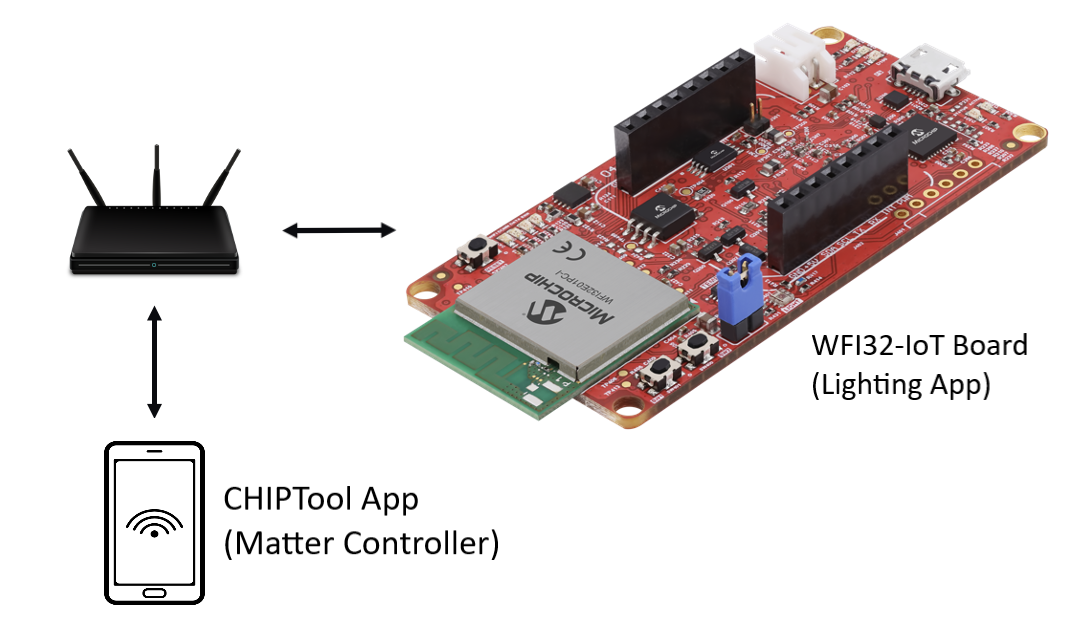
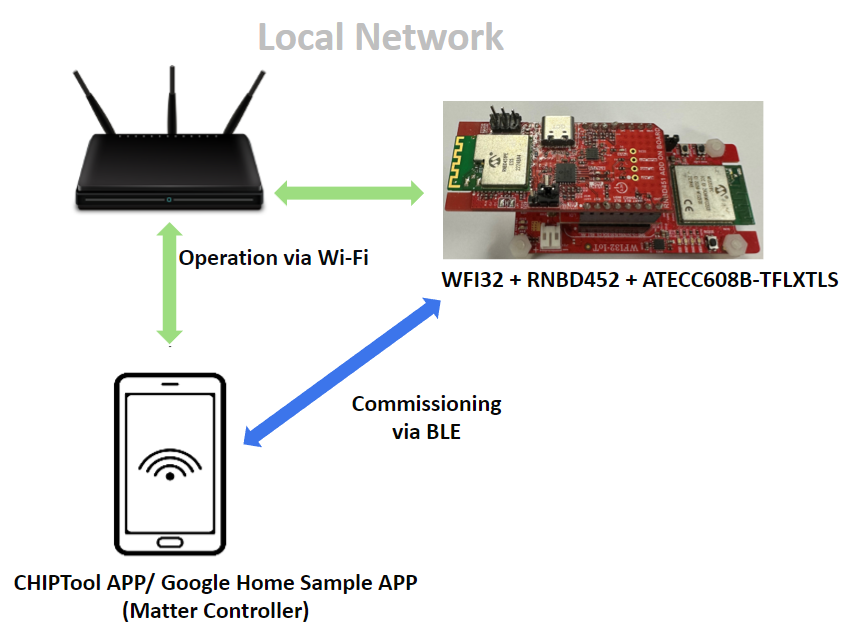
update readme

diff --git a/README.md b/README.md
@@ -4,7 +4,7 @@
 
 # Matter (*formerly* CHIP) PIC32MZW1 Lighting Example
 
-This MPLAB example demonstrates the use of Matter protocol (also known as Project CHIP - Connected Home over IP) over Microchip PIC32MZW1 based [WFI32-IoT board](https://ww1.microchip.com/downloads/aemDocuments/documents/WSG/ProductDocuments/UserGuides/EV36W50A-WFI32-IoT-Board-Users-Guide-DS50003262.pdf)
+This MPLAB example demonstrates the use of Matter protocol (also known as Project CHIP - Connected Home over IP) over Microchip PIC32MZW1 based [WFI32-IoT board](https://ww1.microchip.com/downloads/aemDocuments/documents/WSG/ProductDocuments/UserGuides/EV36W50A-WFI32-IoT-Board-Users-Guide-DS50003262.pdf) and RNBD451 BLE Add On Board.
 
 <hr>
 
@@ -32,7 +32,7 @@ This MPLAB example demonstrates the use of Matter protocol (also known as Projec
 
 ## Introduction
 
-This example is a starting point for Matter protocol demonstration over Microchip's PIC32MZW1 platform and gives an idea to control the Yellow LED on WFI32-IoT board using Android CHIPTool app (Matter Controller). During the initial release (Phase-1) of this example, we use the example certificates provided in the matter's repo for device attestation and embedded the certifcates in the project code. To launch products in the market, certificates approved by [CSA](https://csa-iot.org/) are need to be used. 
+This example is a starting point for Matter protocol demonstration over Microchip's PIC32MZW1 Wi-Fi MCU and RNBD451 BLE module platform and gives an idea to control the Yellow LED on WFI32-IoT board using Android CHIPTool app (Matter Controller). During the initial release (Phase-1) of this example, we use the example certificates provided in the matter's repo for device attestation and embedded the certifcates in the project code. To launch products in the market, certificates approved by [CSA](https://csa-iot.org/) are need to be used. 
 
 - Note: This example was developed and tested using MPLAB X IDE v6.00+, MPLAB XC32 compiler v4.20 on Ubuntu 20.04 LTS and 22.04 LTS and on Microsoft Windows 10 Pro.
 
@@ -40,9 +40,11 @@ This example is a starting point for Matter protocol demonstration over Microchi
 
 ## Hardware Requirements
 
-- [WFI32-IoT board](https://www.microchip.com/en-us/development-tool/EV36W50A)
-- An Android Phone with [&#34;CHIPTool&#34; app](assets/matterMicrochip.apk) installed
-- Router/AP (Needs no internet connectivity)
+- [WFI32-IoT Board](https://www.microchip.com/en-us/development-tool/EV36W50A)
+- [RNBD451 Add On Board](https://www.microchip.com/en-us/development-tool/EV25F14A)
+- An Android phone running [Google Home APP (GHA)](https://play.google.com/store/apps/details?id=com.google.android.apps.chromecast.app&hl=en_US&gl=US)/ [Google Home Sample APP for Matter](https://developers.home.google.com/samples/matter-app)/ [CHIPTool app](assets/matterMicrochip.apk)
+- [ATECC608B TRUST board DT100104](https://www.microchip.com/en-us/development-tool/DT100104) 
+- Router/AP
 
 <a name="environment"></a>
 
@@ -83,10 +85,10 @@ Below is the OS environment that you can use.
 
 ## Demo setup
 
-The demo setup for Matter Lighting example includes an Android phone running [Google Home APP (GHA)](https://play.google.com/store/apps/details?id=com.google.android.apps.chromecast.app&hl=en_US&gl=US)/ [Google Home Sample APP for Matter](https://developers.home.google.com/samples/matter-app)/ [CHIPTool app](assets/matterMicrochip.apk), WFI32-IoT board and Router/AP (Needs no internet connectivity). The following diagram shows the demo setup for WFI32-IoT board.
+The demo setup for Matter Lighting example includes an Android phone running [Google Home APP (GHA)](https://play.google.com/store/apps/details?id=com.google.android.apps.chromecast.app&hl=en_US&gl=US)/ [Google Home Sample APP for Matter](https://developers.home.google.com/samples/matter-app)/ [CHIPTool app](assets/matterMicrochip.apk), WFI32-IoT board and Router/AP. The following diagram shows the demo setup for WFI32-IoT board.
 
 </p>
-  <p align="center"><img width="450" src="assets/matterSetup.png">
+  <p align="center"><img width="600" src="assets/matterSetup.png">
   </p>
 
 <a name="exampfeatures"></a>
@@ -96,7 +98,7 @@ The demo setup for Matter Lighting example includes an Android phone running [Go
 - This example supports OTA (Over-the-air) firmware upgrade feature
 - MPLAB X IDE can be used on Microsoft Windows to build and flash the example
 - Enables ON/OFF lighting cluster
-- Supports device discovery and Commission
+- Supports device discovery and Commission over BLE
 - Status LED (Blue color D403)
   - Blinking at 500ms ON/OFF : Attempting to connect to AP
   - Blinking at 200ms ON/OFF : Set as Soft-AP mode for network provisioning
@@ -173,61 +175,6 @@ Update default Wi-Fi Access Point (AP) credentials in "/PIC32MZW1_Matter_Project
    ```
    The debug session can be started by referring to the steps mentioned [here.](https://microchipdeveloper.com/mplabx:start-a-debug-session) 
 
-<a name="network_provisioning"></a>
-
-## Wi-Fi Network Provisioning
-
-If you want to connect the WFI32-IoT board to the target AP other than the default settings, you can perform below steps:
-
-  #### Step 1:
-  Short press the Switch 1 (SW1), the WFI32-IoT board will reboot and start in softAP mode.
-  
-  The Blue LED on-board will blink at 200ms ON/OFF.
-  </p>
-    <p align="center"><img width="300" src="assets/softAPButton.png">
-      </p>
-
-  #### Step 2:
-  Connect your smartphone to WFI32-IoT board softAP, SSID is "INF-FFF1-8001" in OPEN security.
-
-  #### Step 3:
-  Launch the "Microchip WiFi Provisioning" [iOS](https://apps.apple.com/us/app/wi-fi-provisioning/id1553255731?platform=iphone) or [Android](https://play.google.com/store/apps/details?id=com.microchip.wifiapplication) APP on your iPhone or Android phone.
-  
-  Click "Connect" button
-  </p>
-    <p align="center"><img width="300" src="assets/iosWifiProvisioningApp.png">
-      </p>
-  
-  #### Step 4:
-  - Input the target AP SSID and password:
- Select the desired AP name from the app's scan result list and click "Send" button
-
-  #### Step 5:
-  WFI32-IoT Board receives the target AP credentials and connects to the target AP. The Blue LED on-board turns ON when connected to Wi-Fi. The Blue LED blinks at 500ms ON/OF,F if it fails to make the Wi-Fi connection.
-  </p>
-    <p align="center"><img width="300" src="assets/networkConnectBlueLED.png">
-      </p>
-
-- Note: The "Microchip Wi-Fi Provisioning" APP shown above is actually using a TCP client in the backend. The TCP client connects to WFI32-IoT TCP server and sends properly fomratted AP credentials.
-User can use any other socket client app beside the smartphone APP.
-
-  For example, user can use a PC to connect the WFI32-IoT softAP (SSID is "INF-FFF1-8001") and run below Python 2.7 based TCP client scripts. The WFI32-IoT board will reboot after it receive the AP credentials.
-
-```python
-import socket
-sock = socket.socket(socket.AF_INET, socket.SOCK_STREAM)
-# WFI32-IoT board runs an AP interface with IP address 192.168.1.1 and a TCP server on port 80
-server_address = ('192.168.5.1', 80)
-# Connect to the TCP socket
-sock.connect(server_address)
-# Send AP credentials over the connected socket to the WFI32-IoT board
-# Replace 'ssid' with your AP SSID and 'password' with your AP password 
-# Replace 'security' with proper value relevant to your AP security mode:
-#0:Open | 1: WAP/WPA2 | 2:WEP | 3:WPA3 | 4:Enterprise
-sock.sendall('apply,ssid,security,password,NULL')
-# Send a 'finish' string over the socket to inform WFI32-IoT board to apply the passed credentials
-sock.sendall('finish')
-```
 
 <a name="commissioncontrol"></a>
 
@@ -241,6 +188,11 @@ If you need to test with Google Assistant, you can use the method 1 which use GH
 
 If you need to test the Matter devices with Google Home ecosystem (i.e. google assistant), you need to use Google Home APP (GHA) on android phone to pair the Matter devices. You also need to have a Google Nest devices function as Matter hubs in the Google Home ecosystem.
 The Google Nest device can be Google Nest Hub (2nd gen)/ Google Home Mini. You can also find other supported Google Nest devices in this [page](https://developers.home.google.com/matter/supported-devices)  
+Below picture show about the setup:  
+
+   </p>
+    <p align="center"><img width="600" src="assets/google_assistant_demo.png">
+   </p>  
 
   #### Step 1:
 
@@ -265,7 +217,11 @@ The Google Nest device can be Google Nest Hub (2nd gen)/ Google Home Mini. You c
 
   #### Step 5:
 
-  Pair the Matter device (WFI32-IoT board) by following this [guide](https://developers.home.google.com/matter/integration/pair)   
+  Connect your samrtphone to the target AP that the Matter deice need to be connected to.
+
+  #### Step 6:
+
+  Pair the Matter device (WFI32-IoT board) over BLE by following this [guide](https://developers.home.google.com/matter/integration/pair)   
   The QR code string is printed in the serial console when it boots up. For example:
   ```
   CHIP:SVR: SetupQRCode: [MT:-24J0AFN00KA0648G00]
@@ -276,7 +232,7 @@ The Google Nest device can be Google Nest Hub (2nd gen)/ Google Home Mini. You c
 
   Open the link in a web browser to display the QR code.
 
-  #### Step 6:
+  #### Step 7:
 
   Use the Google Home APP(GHA) or speak to Google Assistant to control the Matter device (WFI32-IoT board). Users can get more information from this [guide](https://developers.home.google.com/matter/integration/control)  
   The Yellow LED on-board can be controlled - turned ON, OFF by toggle the device state from GHA or voice command with Google Assistant.
@@ -299,7 +255,11 @@ The Google Home Sample App for Matter uses the [Google Home Mobile SDK](https://
 
   #### Step 2:
 
-  Follow the [link](https://developers.home.google.com/samples/matter-app) to commission the matter devices.
+  Connect your samrtphone to the target AP that the Matter deice need to be connected to.
+
+  #### Step 3:
+
+  Follow the [link](https://developers.home.google.com/samples/matter-app) to commission the matter devices over BLE.
   Pair the Matter device (WFI32-IoT board) by following this [guide](https://developers.home.google.com/matter/integration/pair)   
   The QR code string is printed in the serial console when it boots up. For example:
   
@@ -312,7 +272,7 @@ The Google Home Sample App for Matter uses the [Google Home Mobile SDK](https://
 
   Open the link in a web browser to display the QR code.
 
-  #### Step 3:
+  #### Step 4:
 
   Control the Matter device by toggle your device On or Off on the APP.
 
@@ -332,6 +292,10 @@ Alternatively, [follow the instructions to install](https://www.javatpoint.com/h
 
   #### Step 1:
 
+  Connect your samrtphone to the target AP that the Matter deice need to be connected to.
+    
+  #### Step 2:
+
   Use "PROVISION CHIP DEVICE WITH WI-FI" -> "INPUT DEVICE ADDRESS" tabs to start commissioning WFI32-IoT board with IP address.
 
 
@@ -339,7 +303,7 @@ Alternatively, [follow the instructions to install](https://www.javatpoint.com/h
     <p align="center"><img width="300" src="assets/provisionMenuSelect.png">
     </p>
 
-  #### Step 2:
+  #### Step 3:
 
   To find Matter devices connected to the same AP ***(configured [here](#building-the-example))***, with "Discriminator - 3840" and "Pincode - 20202021" use "DISCOVER" tab. For a single Matter device discovered on the network, "Device address" will be auto populated and when multiple Matter devices are discovered, select an entry from the list to populate the "Device address". To proceed with commissioning of the discovered Matter device, use "COMMISSION" tab.
 
@@ -347,7 +311,7 @@ Alternatively, [follow the instructions to install](https://www.javatpoint.com/h
     <p align="center"><img width="300" src="assets/commissioningDevice.png">
     </p>
 
-  #### Step 3:
+  #### Step 4:
 
   CHIPTool app notifies successful commissioning of Matter device with message "Commissioning completed with result: 0". To proceed with controlling device, use "LIGHT ON/OFF & LEVEL CLUSTER" tab.
 
@@ -355,7 +319,7 @@ Alternatively, [follow the instructions to install](https://www.javatpoint.com/h
     <p align="center"><img width="300" src="assets/CommissionedControlMenu.png">
     </p>
 
-  #### Step 4:
+  #### Step 5:
 
   The Yellow LED on-board can be controlled - turned ON, OFF, toggled using respective tabs. The "READ" tab returns the On/Off command value.
 
@@ -372,6 +336,47 @@ Alternatively, [follow the instructions to install](https://www.javatpoint.com/h
   - Note: If you need to re-commission the device, you can long press Switch 1 (SW1) for 5 sec to factory reset the device.  
 
 <a name="otafwupgrade"></a>
+
+## Attestation Certificate Provisioning
+
+Matter Device Attestation Certificate (DAC) need to be provisioing to the device for the commissioning process.  
+In this project, the DAC and the keys are stored in the ECC608 TrustFlex chip (secure element) , user need to create the Matter DAC first with the public key that stored in the ECC608 TrustFlex and run the python scripts to provision the certificate to the ECC608 chip.  
+  ### Retieve the public key from ECC608 TrustFlex
+  1. plug the ATECC608B TRUST board [DT100104](https://www.microchip.com/en-us/development-tool/DT100104) to WFI32-IoT Board through the MikroBus connector
+  2. connect PC to the WFI32-IoT Board with USB cable
+  3. Go to the direcotry third_party/wfi32/utilities/
+  4. run info.py scripts, the scripts extract the public key from the ECC608 Trustflex and output the file public_key.pem
+  ### Create the DAC
+  1. Go to directory src/tools/chip-cert, compile the chip-cert tool according to the readme file  
+  2. If you are doing test/ development, you can use the default Attestation Authority (PAA) certificate, Product Attestation Intermediate (PAI) in this source code tree, and create the Device Attestation Certificates (DAC) only  
+     a. Copy credentials/development/attestation/Matter-Development-PAI-noPID-Key.pem and Matter-Development-PAI-noPID-Cert.pem to the same direcotry of chip-cert.  
+     b. Create Product Device Attestation Certificates (DAC): 
+      ```
+        ./chip-cert gen-att-cert --type d --subject-cn "Matter Development DAC 01" --subject-vid FFF1 --subject-pid 8001 --valid-from "2022-10-15 14:00:00" --lifetime 7305 --ca-key Matter-Development-PAI-noPID-Key.pem --ca-cert Matter-Development-PAI-noPID-Cert.pem --out Chip-DAC-Cert.pem 
+      ```
+     
+  3.  If you need to create the whole certtifcate chains by your own, (self-signed roduct Attestation Authority (PAA) certificate, Product Attestation Intermediate (PAI) certificate and  Device Attestation Certificates (DAC)), perform below steps:  
+      
+      a. Create Product Attestation Authority (PAA) certificate and private key  
+        ```
+          ./chip-cert gen-att-cert --type a --subject-cn "Matter Development PAA 01" --valid-from "2020-10-15 14:00:00" --lifetime 7305 --out-key Chip-PAA-Key.pem --out Chip-PAA-Cert.pem  
+        ```
+
+      b. Create Product Attestation Intermediate (PAI) certificate and private key
+
+        ```
+          ./chip-cert gen-att-cert --type i --subject-cn "Matter Development PAI 01" --subject-vid FFF1 --valid-from "2020-10-15 14:00:00" --lifetime 7305 --ca-key Chip-PAA-Key.pem --ca-cert Chip-PAA-Cert.pem --out-key Chip-PAI-Key.pem --out Chip-PAI-Cert.pem
+        ```
+      c. Create Product Device Attestation Certificates (DAC): 
+
+      ```
+        ./chip-cert gen-att-cert --type d --subject-cn "Matter Development DAC 01" --subject-vid FFF1 --subject-pid 0123 --valid-from "2020-10-15 14:00:00" --lifetime 7305 --ca-key Chip-PAI-Key.pem --ca-cert Chip-PAI-Cert.pem --out Chip-DAC-Cert.pem
+
+      ```
+  ### Provision certificate
+
+  1. Go to the direcotry third_party/wfi32/utilities/
+  2. run provision.py scripts, the scripts load DAC to the ECC608 TrustFlex.
 
 ## OTA Firmware Upgrade
 
